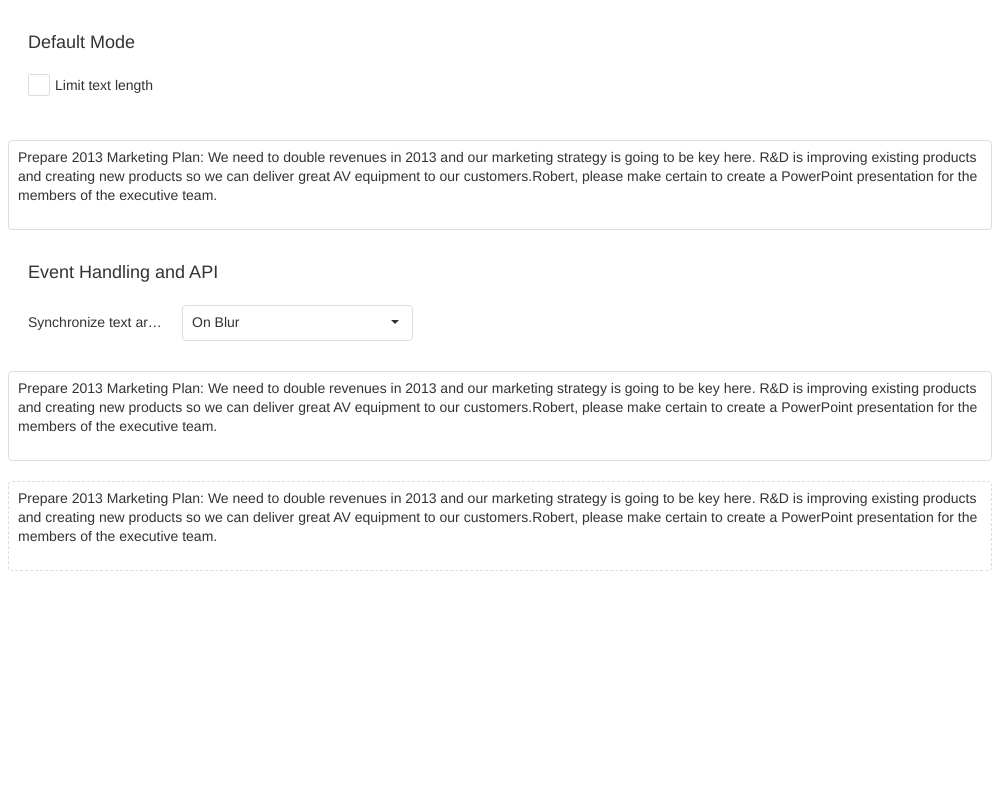
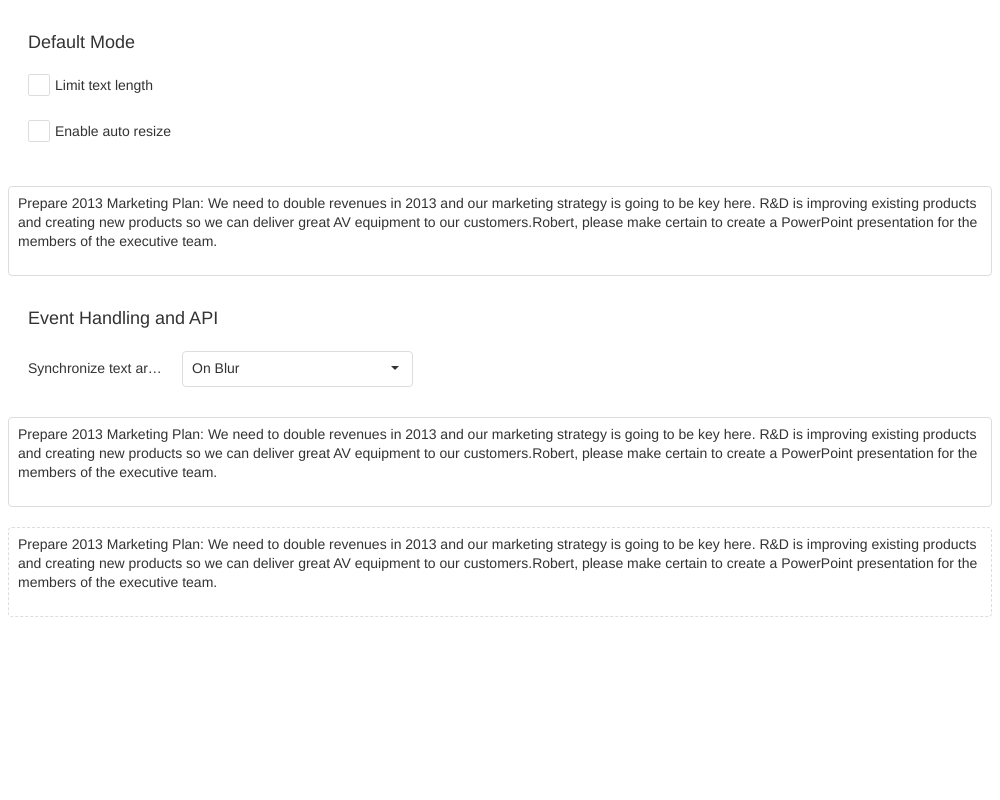
v22.2 Add autoResizeEnabled for TextArea (#2187)
* Added TextArea autoResizeEnabled for all frameworks

* Update etalon for TextArea-Overview.png

* Linter fix

* Fix Vue autoResizeEnabled

* Refactor if statements into ternary expressions

* Fixes for TextArea

jQuery, Angular, Vue, .NET Core & MVC

Changed region(s): [[0.0, 0.4375, 0.992, 0.75], [0.0, 0.1562, 0.992, 0.4062]]

diff --git a/JSDemos/Demos/TextArea/Overview/React/App.js b/JSDemos/Demos/TextArea/Overview/React/App.js
@@ -15,10 +15,13 @@ class App extends React.Component {
       valueForEditableTestArea: service.getContent(),
       maxLength: null,
       eventValue: valueChangeEvents[0].name,
+      autoResizeEnabled: false,
+      height: 90,
     };
     this.onCheckboxValueChanged = this.onCheckboxValueChanged.bind(this);
     this.onSelectBoxValueChanged = this.onSelectBoxValueChanged.bind(this);
     this.onTextAreaValueChanged = this.onTextAreaValueChanged.bind(this);
+    this.onAutoResizeChanged = this.onAutoResizeChanged.bind(this);
   }
 
   render() {
@@ -32,12 +35,19 @@ class App extends React.Component {
               onValueChanged={this.onCheckboxValueChanged}
               text="Limit text length"></CheckBox>
           </div>
+          <div className="dx-field">
+            <CheckBox
+              value={this.state.autoResizeEnabled}
+              onValueChanged={this.onAutoResizeChanged}
+              text="Enable auto resize"></CheckBox>
+          </div>
         </div>
         <div className="left-content">
           <TextArea
-            height={90}
+            height={this.state.height}
             maxLength={this.state.maxLength}
-            defaultValue={this.state.value} />
+            defaultValue={this.state.value}
+            autoResizeEnabled={this.state.autoResizeEnabled} />
         </div>
         <div className="full-width-content">
           <div className="dx-fieldset">
@@ -72,17 +82,18 @@ class App extends React.Component {
   }
 
   onCheckboxValueChanged(e) {
-    if (e.value) {
-      this.setState({
-        value: service.getContent().substring(0, 100),
-        maxLength: 100,
-      });
-    } else {
-      this.setState({
-        value: service.getContent(),
-        maxLength: null,
-      });
-    }
+    const str = service.getContent();
+    this.setState({
+      value: e.value ? str.substring(0, 100) : str,
+      maxLength: e.value ? 100 : null,
+    });
+  }
+
+  onAutoResizeChanged(e) {
+    this.setState({
+      autoResizeEnabled: e.value,
+      height: e.value ? undefined : 90,
+    });
   }
 
   onSelectBoxValueChanged(e) {

diff --git a/JSDemos/Demos/TextArea/Overview/Vue/App.vue b/JSDemos/Demos/TextArea/Overview/Vue/App.vue
@@ -9,12 +9,20 @@
           @value-changed="onCheckboxValueChanged"
         />
       </div>
+      <div class="dx-field">
+        <DxCheckBox
+          v-model:value="autoResizeEnabled"
+          text="Enable auto resize"
+          @value-changed="onAutoResizeChanged"
+        />
+      </div>
     </div>
     <div class="left-content">
       <DxTextArea
-        :height="90"
+        v-model:height="height"
         :max-length="maxLength"
         v-model:value="value"
+        v-model:auto-resize-enabled="autoResizeEnabled"
       />
     </div>
     <div class="full-width-content">
@@ -65,17 +73,18 @@ export default {
       value: service.getContent(),
       valueForEditableTextArea: service.getContent(),
       valueChangeEvents: service.valueChangeEvents,
+      autoResizeEnabled: false,
+      height: 90,
     };
   },
   methods: {
     onCheckboxValueChanged(e) {
-      if (e.value) {
-        this.value = service.getContent().substring(0, 100);
-        this.maxLength = 100;
-      } else {
-        this.value = service.getContent();
-        this.maxLength = null;
-      }
+      const str = service.getContent();
+      this.value = e.value ? str.substring(0, 100) : str;
+      this.maxLength = e.value ? 100 : null;
+    },
+    onAutoResizeChanged(e) {
+      this.height = e.value ? undefined : 90;
     },
   },
 };

diff --git a/JSDemos/Demos/TextArea/Overview/AngularJS/index.js b/JSDemos/Demos/TextArea/Overview/AngularJS/index.js
@@ -13,27 +13,36 @@ DemoApp.controller('DemoController', ($scope) => {
   $scope.value = longText;
   $scope.eventValue = valueChangeEvents[0].name;
   $scope.valueForEditableTextArea = longText;
+  $scope.height = 90;
+  $scope.autoResizeEnabled = false;
 
   $scope.textAreaWithMaxLength = {
     height: 90,
     bindingOptions: {
       maxLength: 'maxLength',
       value: 'value',
+      autoResizeEnabled: 'autoResizeEnabled',
     },
   };
 
   $scope.checkBoxOptions = {
     value: false,
     onValueChanged(data) {
-      if (data.value) {
-        $scope.value = longText.substring(0, 100);
-        $scope.maxLength = 100;
-      } else {
-        $scope.value = longText;
-        $scope.maxLength = null;
-      }
+      $scope.value = data.value ? longText.substring(0, 100) : longText;
+      $scope.maxLength = data.value ? 100 : null;
     },
     text: 'Limit text length',
+  };
+
+  $scope.autoResizeCheckBoxOptions = {
+    text: 'Enable auto resize',
+    onValueChanged(e) {
+      $scope.autoResizeEnabled = e.value;
+      $scope.height = e.value ? undefined : 90;
+    },
+    bindingOptions: {
+      value: 'autoResizeEnabled',
+    },
   };
 
   $scope.selectBoxOptions = {

diff --git a/JSDemos/Demos/TextArea/Overview/jQuery/index.js b/JSDemos/Demos/TextArea/Overview/jQuery/index.js
@@ -7,15 +7,20 @@ $(() => {
   $('#set-max-length').dxCheckBox({
     value: false,
     onValueChanged(data) {
-      if (data.value) {
-        exampleTextArea.option('value', (exampleTextArea.option('value')).substring(0, 100));
-        exampleTextArea.option('maxLength', 100);
-      } else {
-        exampleTextArea.option('maxLength', null);
-        exampleTextArea.option('value', longText);
-      }
+      const str = data.value ? exampleTextArea.option('value').substring(0, 100) : longText;
+      exampleTextArea.option('value', str);
+      exampleTextArea.option('maxLength', data.value ? 100 : null);
     },
     text: 'Limit text length',
+  });
+
+  $('#set-resize').dxCheckBox({
+    value: false,
+    onValueChanged(e) {
+      exampleTextArea.option('autoResizeEnabled', e.value);
+      exampleTextArea.option('height', e.value ? undefined : 90);
+    },
+    text: 'Enable auto resize',
   });
 
   const valueChangeEvents = [{

diff --git a/JSDemos/Demos/TextArea/Overview/Angular/app/app.component.ts b/JSDemos/Demos/TextArea/Overview/Angular/app/app.component.ts
@@ -27,6 +27,10 @@ export class AppComponent {
 
   valueForEditableTextArea: string;
 
+  height = 90;
+
+  autoResizeEnabled: boolean;
+
   constructor(private service: Service) {
     this.valueForEditableTextArea = this.service.getContent();
     this.value = this.service.getContent();
@@ -38,16 +42,17 @@ export class AppComponent {
       name: 'keyup',
     }];
     this.eventValue = this.valueChangeEvents[0].name;
+    this.autoResizeEnabled = false;
   }
 
   onCheckboxValueChanged(e) {
-    if (e.value) {
-      this.value = this.service.getContent().substring(0, 100);
-      this.maxLength = 100;
-    } else {
-      this.value = this.service.getContent();
-      this.maxLength = null;
-    }
+    let str = this.service.getContent();
+    this.value = e.value ? str.substring(0, 100) : str;
+    this.maxLength = e.value ? 100 : null;
+  }
+
+  onAutoResizeChanged(e) {
+    this.height = e.value ? undefined : 90;
   }
 }
 

diff --git a/JSDemos/Demos/TextArea/Overview/Angular/app/app.component.html b/JSDemos/Demos/TextArea/Overview/Angular/app/app.component.html
@@ -8,9 +8,21 @@
     >
     </dx-check-box>
   </div>
+  <div class="dx-field">
+    <dx-check-box
+      [(value)]="autoResizeEnabled"
+      (onValueChanged)="onAutoResizeChanged($event)"
+      text="Enable auto resize"
+    ></dx-check-box>
+  </div>
 </div>
 <div class="left-content">
-  <dx-text-area [height]="90" [maxLength]="maxLength" [(value)]="value">
+  <dx-text-area
+    [(height)]="height"
+    [maxLength]="maxLength"
+    [(value)]="value"
+    [(autoResizeEnabled)]="autoResizeEnabled"
+  >
   </dx-text-area>
 </div>
 <div class="full-width-content">

diff --git a/JSDemos/Demos/TextArea/Overview/AngularJS/index.html b/JSDemos/Demos/TextArea/Overview/AngularJS/index.html
@@ -20,6 +20,9 @@
         <div class="dx-field">
           <div dx-check-box="checkBoxOptions"></div>
         </div>
+        <div class="dx-field">
+          <div dx-check-box="autoResizeCheckBoxOptions"></div>
+        </div>
       </div>
       <div class="left-content">
         <div dx-text-area="textAreaWithMaxLength"></div>

diff --git a/JSDemos/Demos/TextArea/Overview/jQuery/index.html b/JSDemos/Demos/TextArea/Overview/jQuery/index.html
@@ -19,6 +19,9 @@
         <div class="dx-field">
           <div id="set-max-length"></div>
         </div>
+        <div class="dx-field">
+          <div id="set-resize"></div>
+        </div>
       </div>
 
       <div class="left-content">
